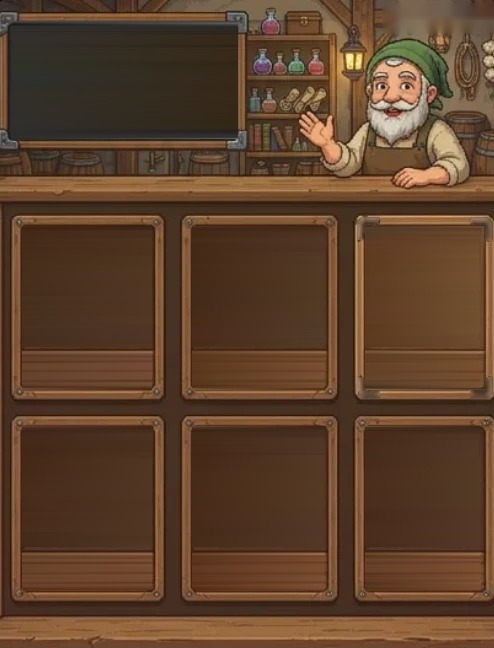
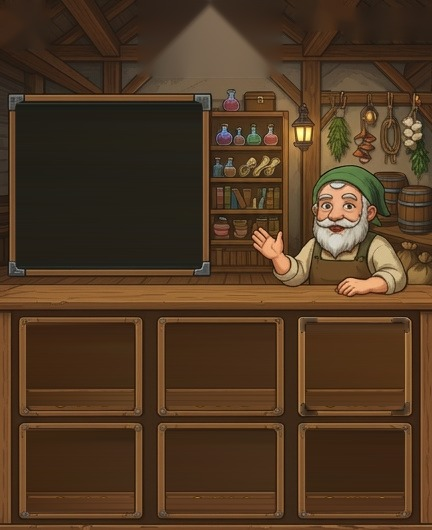
feat: Laden-Bild beginnt ganz oben, das Schild hängt in den Dachbalken
Neues Bild von AktivesBrett (432 x 530): eingemaltes Schild, Pfeil,
Sprechblase und Gold weggerechnet, Tafel und Fächer neu vermessen.
Die Preise richten ihre Größe nach der Planke.

diff --git a/lib/gear/widgets/laden_bild.dart b/lib/gear/widgets/laden_bild.dart
@@ -3,31 +3,33 @@ import 'dart:ui';
 /// **Wo im Ladenbild was liegt** (AktivesBrett, 21.11.2026) — eine
 /// Stelle für alle Rechtecke, in Bildpunkten des Bildes.
 ///
-/// Das Bild (`assets/UI/Laden.jpg`, 494 × 648) zeigt oben links die Tafel,
-/// rechts den Händler und darunter den Tresen mit sechs Fächern. Tafel
-/// und Fächer sind leer gemalt; was darauf steht, legt die App darüber.
+/// Das Bild (`assets/UI/Laden.jpg`, 432 × 530) beginnt ganz oben am
+/// Bildschirm: zuerst die Dachbalken, in denen das Schild „Laden“ hängt,
+/// darunter links die Tafel, rechts der Händler, unten sein Tresen mit
+/// sechs Fächern. Tafel und Fächer sind leer gemalt; was darauf steht,
+/// legt die App darüber.
 /// Wer das Bild austauscht, misst die Rechtecke hier neu.
 abstract final class LadenBild {
   static const String pfad = 'assets/UI/Laden.jpg';
 
-  static const double breite = 494;
-  static const double hoehe = 648;
+  static const double breite = 432;
+  static const double hoehe = 530;
 
   /// Das dunkle Innere der Tafel.
-  static const Rect tafel = Rect.fromLTRB(12, 21, 238, 139);
+  static const Rect tafel = Rect.fromLTRB(16, 103, 202, 266);
 
   /// Die sechs Fächer, Zeile für Zeile von links.
   static final List<LadenFachBild> faecher = <LadenFachBild>[
-    LadenFachBild.bei(12, 164, 216),
-    LadenFachBild.bei(182, 336, 216),
-    LadenFachBild.bei(355, 491, 216),
-    LadenFachBild.bei(12, 164, 416),
-    LadenFachBild.bei(182, 336, 416),
-    LadenFachBild.bei(355, 491, 416),
+    LadenFachBild.bei(18, 142, 316),
+    LadenFachBild.bei(158, 282, 316),
+    LadenFachBild.bei(298, 412, 316),
+    LadenFachBild.bei(18, 142, 422),
+    LadenFachBild.bei(158, 282, 422),
+    LadenFachBild.bei(298, 412, 422),
   ];
 
   /// Die Farbe des Tresens am unteren Bildrand — der Grund darunter.
-  static const Color tresen = Color(0xFF6A4530);
+  static const Color tresen = Color(0xFF6A4426);
 }
 
 /// Ein Fach: der Holzrahmen, darin das dunkle Innere fürs Bild und den
@@ -41,9 +43,9 @@ class LadenFachBild {
 
   /// Aus dem Rahmen gemessen: Alle sechs Fächer sind gleich gebaut.
   LadenFachBild.bei(double links, double rechts, double oben)
-    : rahmen = Rect.fromLTRB(links, oben, rechts, oben + 184),
-      innen = Rect.fromLTRB(links + 10, oben + 10, rechts - 12, oben + 131),
-      planke = Rect.fromLTRB(links + 10, oben + 134, rechts - 12, oben + 174);
+    : rahmen = Rect.fromLTRB(links, oben, rechts, oben + 100),
+      innen = Rect.fromLTRB(links + 8, oben + 7, rechts - 8, oben + 74),
+      planke = Rect.fromLTRB(links + 8, oben + 76, rechts - 8, oben + 90);
 
   final Rect rahmen;
   final Rect innen;

diff --git a/lib/gear/widgets/laden_fach.dart b/lib/gear/widgets/laden_fach.dart
@@ -123,7 +123,7 @@ class LadenFach extends StatelessWidget {
               // Auf der Planke: der Preis — oder ein Haken, wenn gekauft.
               Positioned.fromRect(
                 rect: planke,
-                child: Center(child: _preis(gekauft, blass)),
+                child: Center(child: _preis(gekauft, blass, planke.height)),
               ),
               if (gesammelt)
                 const Positioned(
@@ -147,11 +147,14 @@ class LadenFach extends StatelessWidget {
     );
   }
 
-  Widget _preis(bool gekauft, double blass) {
+  /// Der Preis passt in die Planke: Schrift und Münze richten sich nach
+  /// ihrer Höhe, nicht umgekehrt.
+  Widget _preis(bool gekauft, double blass, double hoehe) {
+    final groesse = (hoehe * 0.95).clamp(9.0, 15.0);
     if (gekauft) {
-      return const Icon(
+      return Icon(
         Icons.check_circle,
-        size: 18,
+        size: groesse,
         color: Palette.textOnDarkDim,
         semanticLabel: 'gekauft',
       );
@@ -162,15 +165,16 @@ class LadenFach extends StatelessWidget {
         mainAxisSize: MainAxisSize.min,
         children: <Widget>[
           if (block == PurchaseBlock.gesperrt) ...<Widget>[
-            const Icon(Icons.lock, size: 13, color: Palette.textOnDark),
+            Icon(Icons.lock, size: groesse, color: Palette.textOnDark),
             const SizedBox(width: 3),
           ],
-          const GoldIcon(size: 15),
+          GoldIcon(size: groesse),
           const SizedBox(width: 4),
           Text(
             '${angebot.paid}',
-            style: const TextStyle(
-              fontSize: 15,
+            style: TextStyle(
+              fontSize: groesse,
+              height: 1,
               fontWeight: FontWeight.bold,
               color: Palette.textOnDark,
               shadows: _schatten,

diff --git a/lib/gear/shop_screen.dart b/lib/gear/shop_screen.dart
@@ -61,6 +61,9 @@ class _ShopScreenState extends ConsumerState<ShopScreen> {
 
     return Scaffold(
       backgroundColor: LadenBild.tresen,
+      // **Das Bild beginnt ganz oben** (AktivesBrett, 21.11.2026): Das
+      // Schild „Laden“ hängt in seinen Dachbalken, nicht darüber.
+      extendBodyBehindAppBar: true,
       appBar: SchildLeiste(
         leading: const ZurueckPfeil(schritt: Schritt.sperren),
         titel: 'Laden',
@@ -90,6 +93,7 @@ class _ShopScreenState extends ConsumerState<ShopScreen> {
       body: MentorFlaeche(
         ort: MentorOrt.laden,
         child: SafeArea(
+          top: false,
           child: Align(
             alignment: Alignment.topCenter,
             child: ConstrainedBox(

diff --git a/CLAUDE.md b/CLAUDE.md
@@ -250,7 +250,7 @@ durch die Grube ersetzt und gelöscht.
 | `lib/habits/widgets/streak_freeze_card.dart` | der Knopf, der gestern deckt — nur wenn es etwas zu retten gibt | Flutter |
 | `lib/gear/gear_controller.dart` | Riverpod-Brücke Inventar ↔ UI, **enthält keine Regeln** | Flutter |
 | `lib/gear/shop_screen.dart` | der Laden: **nur kaufen**, sechs Angebote am Tag — Besessenes steht in der Ausrüstung (Issue #88); **ein gemaltes Bild** (21.11.2026): oben links die Tafel, rechts der Händler, darunter sein Tresen mit sechs Fächern — ein Tipp auf ein Fach schreibt es auf die Tafel, dort steht „Kaufen“; im Rundgang zeigt der Mentor auf das Angebot für ihn | Flutter |
-| `lib/gear/widgets/laden_bild.dart` | **wo im Ladenbild was liegt** — Tafel und die sechs Fächer (Rahmen, Inneres, Planke) in Bildpunkten von `assets/UI/Laden.jpg`; wer das Bild tauscht, misst hier neu | Flutter |
+| `lib/gear/widgets/laden_bild.dart` | **wo im Ladenbild was liegt** — Tafel und die sechs Fächer (Rahmen, Inneres, Planke) in Bildpunkten von `assets/UI/Laden.jpg` (432 × 530, **beginnt ganz oben**, das Schild hängt in den Dachbalken); wer das Bild tauscht, misst hier neu | Flutter |
 | `lib/gear/widgets/laden_tafel.dart` | **die Tafel**: Bild, Name, Seltenheit, Wurf, Werte gegen das Getragene, Kampf, „Kaufen“ oder warum nicht — feste Größe, rollt innen; rechnet nichts (`Loadout.blockFor`) | Flutter |
 | `lib/gear/widgets/laden_fach.dart` | **ein Fach im Tresen**: Stück und Name im Inneren, Preis auf der Planke, weiße Winkel, wenn es auf der Tafel steht, das Zeichen der Sammlung | Flutter |
 | `lib/gear/equipment_screen.dart` | **die Ausrüstung** ([ADR-0057](docs/decisions/0057-ausruestung-bekommt-einen-eigenen-bereich.md)): sechs Plätze, darunter **der Rucksack** — jedes Exemplar eine Kachel mit Pfeil und Schloss, in vier Ordnungen, Aufräumen je Seltenheit ([ADR-0081](docs/decisions/0081-der-rucksack-und-das-schloss.md)); **gewechselt wird per Ziehen**; im Rundgang zeigt der Mentor aufs Sperren | Flutter |

diff --git a/docs/context/state.md b/docs/context/state.md
@@ -35,6 +35,13 @@ der Preis steht auf der Planke des Fachs. Die Seltenheit hat eine dritte
 Farbspalte für dunklen Grund (`RarityBadge.colorOnDarkOf`). Unter dem
 Bild ist der Grund in der Farbe des Tresens.
 
+**Danach** (AktivesBrett, mit einem zweiten Bild): **Das Bild beginnt
+ganz oben**, das Schild „Laden“ hängt in seinen Dachbalken über der Tafel,
+daneben Zurück-Pfeil und Gold (`extendBodyBehindAppBar`). Das neue Bild
+(432 × 530) hatte Schild, Pfeil, Sprechblase und Gold eingemalt — sie sind
+weggerechnet und liegen unter den echten. Die Preise richten ihre Größe
+nach der Planke.
+
 App 1221. In 390 × 844 gerendert.
 
 ### Offen
@@ -43,7 +50,7 @@ App 1221. In 390 × 844 gerendert.
   KI-Bild aus (oben rechts waren Knöpfe einer App mit abfotografiert).
   **Vor dem Store klären**; bis dahin steht es nicht in einer
   HERKUNFT-Datei.
-- Oben rechts ist eine leicht verwischte Stelle, wo die Knöpfe waren.
+- Oben, wo Schild, Pfeil und Gold eingemalt waren, ist das Bild verwischt — verdeckt von den echten.
 - Das Bild ist nicht im Pixelstil der übrigen App gemalt.
 - **Frederik hat es nicht gesehen.**
 
